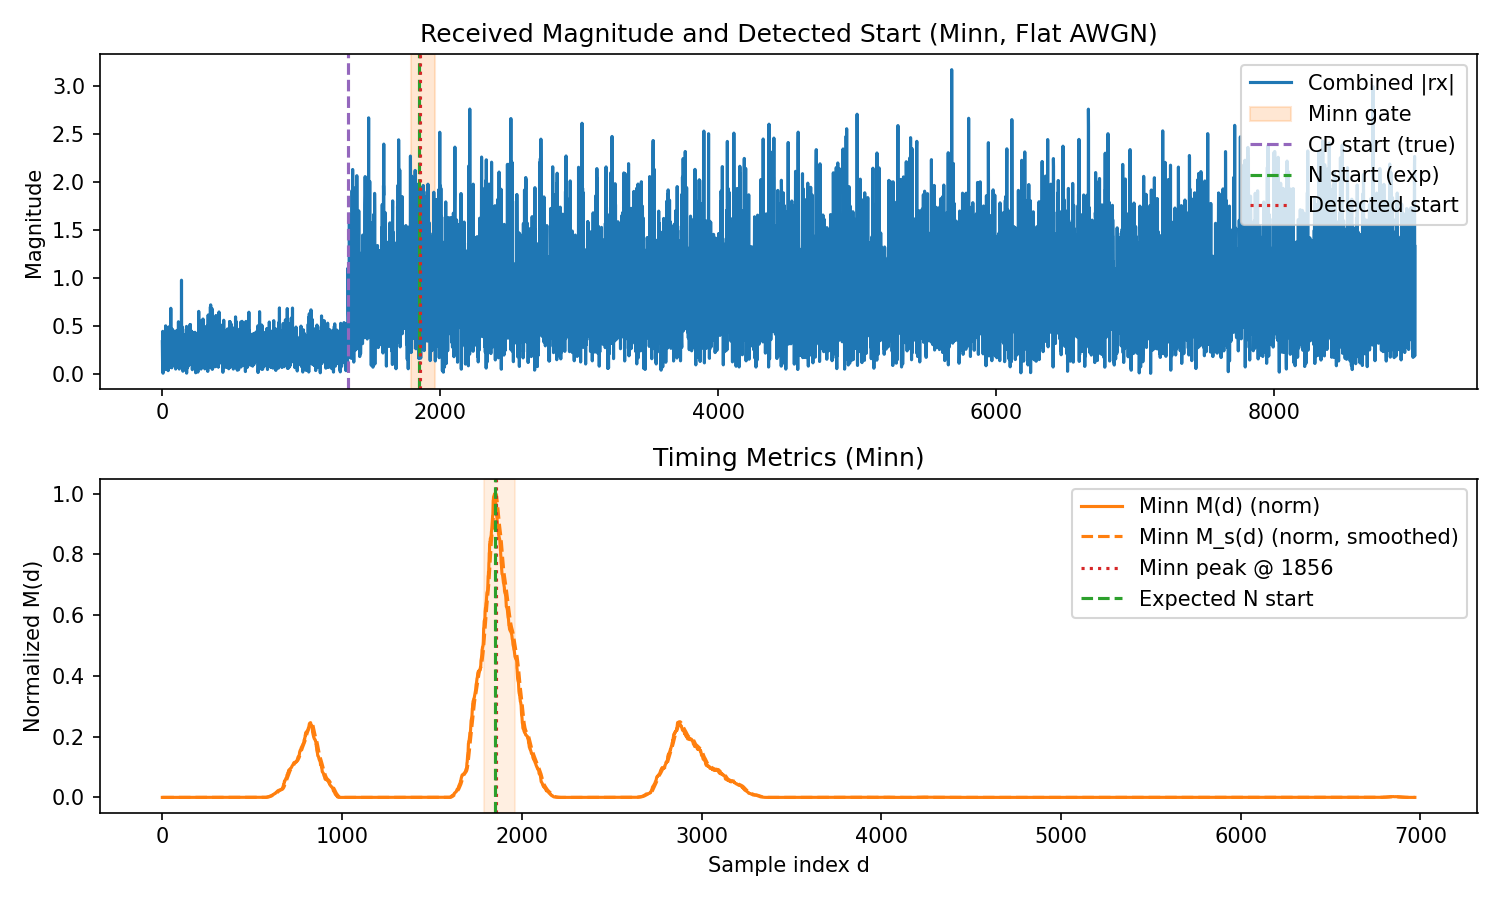
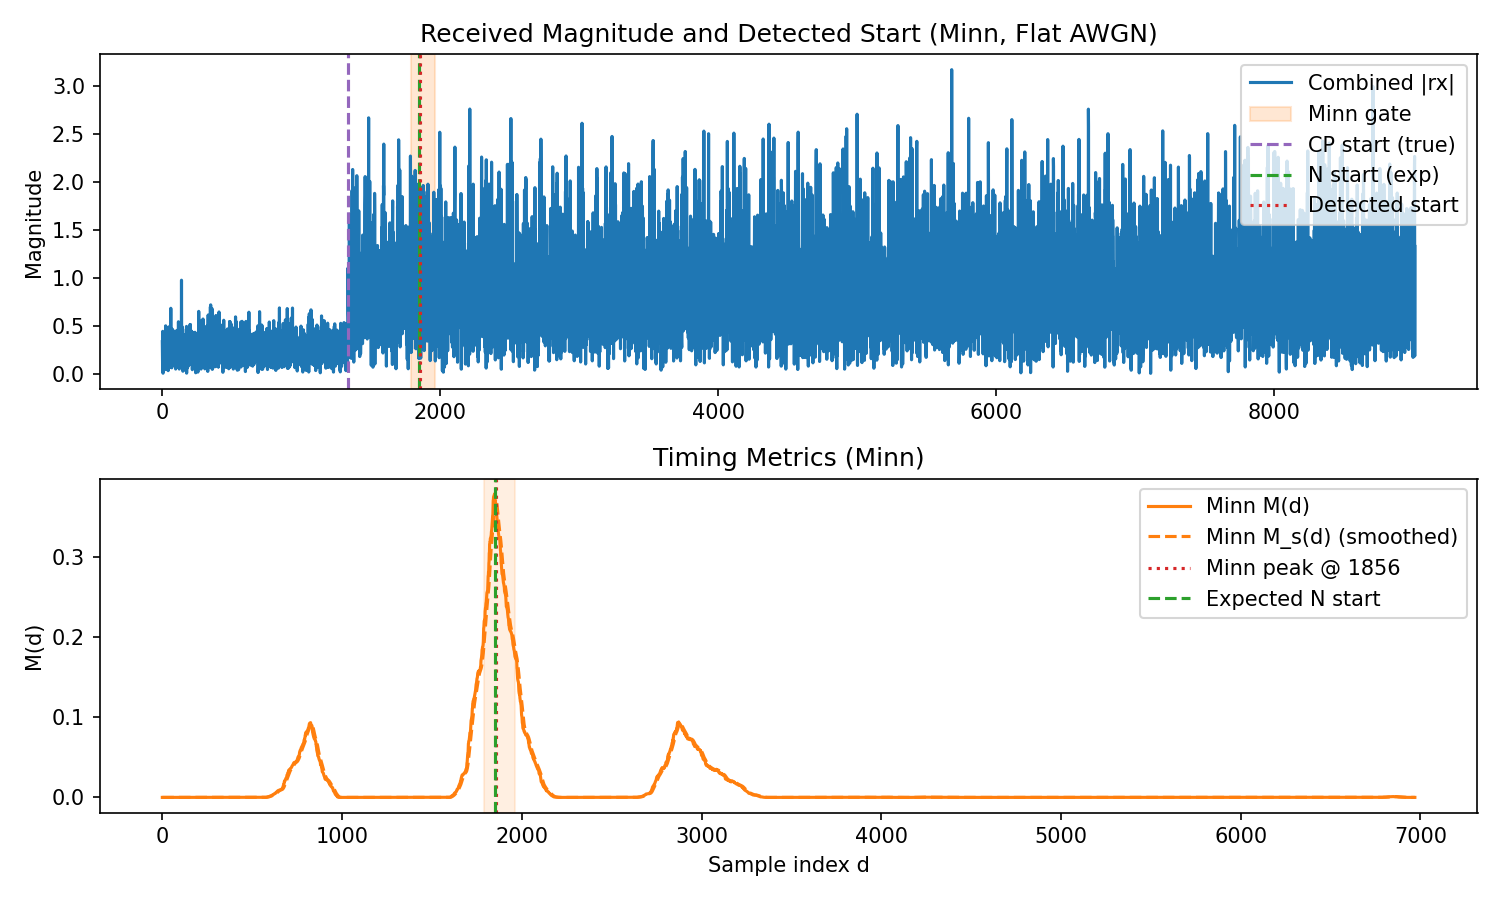
dont normalize minn graphs

diff --git a/minn.py b/minn.py
@@ -289,11 +289,6 @@ def run_simulation(channel_name: str | None, plots_subdir: str):
     detected_start = peak_position
     
     minn_gate_segments = mask_segments(minn_gate_mask)
-    max_m = float(np.max(M)) if M.size > 0 else 0.0
-    minn_norm: np.ndarray | None = M / max_m if max_m > 0 else None
-    max_ms = float(np.max(M_smooth)) if M_smooth.size > 0 else 0.0
-    minn_smooth_norm: np.ndarray | None = M_smooth / max_ms if max_ms > 0 else None
-    
     # Ground-truth alignment helpers
     channel_peak_offset = compute_channel_peak_offset(channel_impulse_response)
     # Plot raw CIR if measured profile enabled
@@ -312,12 +307,8 @@ def run_simulation(channel_name: str | None, plots_subdir: str):
     channel_desc = f"Measured CIR '{channel_name}'" if channel_name else "Flat AWGN"
     
     plt.figure(figsize=(10, 4))
-    if minn_norm is not None:
-        plt.plot(minn_norm, label="Minn M(d) (norm)", color="tab:orange")
-    else:
-        plt.plot(M, label="Minn M(d)", color="tab:orange")
-    if minn_smooth_norm is not None:
-        plt.plot(minn_smooth_norm, label="Minn M_s(d) (norm, smoothed)", color="tab:orange", linestyle="--")
+    plt.plot(M, label="Minn M(d)", color="tab:orange")
+    plt.plot(M_smooth, label="Minn M_s(d) (smoothed)", color="tab:orange", linestyle="--")
     for idx, (seg_start, seg_end) in enumerate(minn_gate_segments):
         gate_label = (
             f"Minn gate (≥{MINN_GATE_THRESHOLD:.0%} of Minn peak)" if idx == 0 else None
@@ -326,11 +317,9 @@ def run_simulation(channel_name: str | None, plots_subdir: str):
     plt.axvline(peak_position, color="tab:red", linestyle=":", label=f"Minn peak @ {peak_position}")
     plt.axvline(expected_n_start, color="tab:green", linestyle="--", label="Expected N start")
     plt.xlabel("Sample index d")
-    plt.ylabel("Normalized M(d)" if minn_norm is not None else "M(d)")
+    plt.ylabel("M(d)")
     plt.title(f"Minn Metric & Gate — {channel_desc}")
     plt.legend(loc="upper right")
-    if minn_norm is not None:
-        plt.ylim(-0.05, 1.05)
     plt.tight_layout()
     plt.savefig(metric_plot_path, dpi=150)
     plt.close()
@@ -352,26 +341,20 @@ def run_simulation(channel_name: str | None, plots_subdir: str):
     axes[0].set_title(f"Received Magnitude and Detected Start (Minn, {channel_desc})")
     axes[0].legend(loc="upper right")
     
-    if minn_norm is not None:
-        axes[1].plot(minn_norm, label="Minn M(d) (norm)", color="tab:orange")
-    else:
-        axes[1].plot(M, label="Minn M(d)", color="tab:orange")
-    if minn_smooth_norm is not None:
-        axes[1].plot(
-            minn_smooth_norm,
-            label="Minn M_s(d) (norm, smoothed)",
-            color="tab:orange",
-            linestyle="--",
-        )
+    axes[1].plot(M, label="Minn M(d)", color="tab:orange")
+    axes[1].plot(
+        M_smooth,
+        label="Minn M_s(d) (smoothed)",
+        color="tab:orange",
+        linestyle="--",
+    )
     for seg_start, seg_end in minn_gate_segments:
         axes[1].axvspan(seg_start, seg_end, color="tab:orange", alpha=0.12)
     axes[1].axvline(peak_position, color="tab:red", linestyle=":", label=f"Minn peak @ {peak_position}")
     axes[1].axvline(expected_n_start, color="tab:green", linestyle="--", label="Expected N start")
     axes[1].set_xlabel("Sample index d")
-    axes[1].set_ylabel("Normalized M(d)" if minn_norm is not None else "M(d)")
+    axes[1].set_ylabel("M(d)")
     axes[1].set_title("Timing Metrics (Minn)")
-    if minn_norm is not None or sc_norm is not None:
-        axes[1].set_ylim(-0.05, 1.05)
     axes[1].legend(loc="upper right")
     
     fig.tight_layout()
